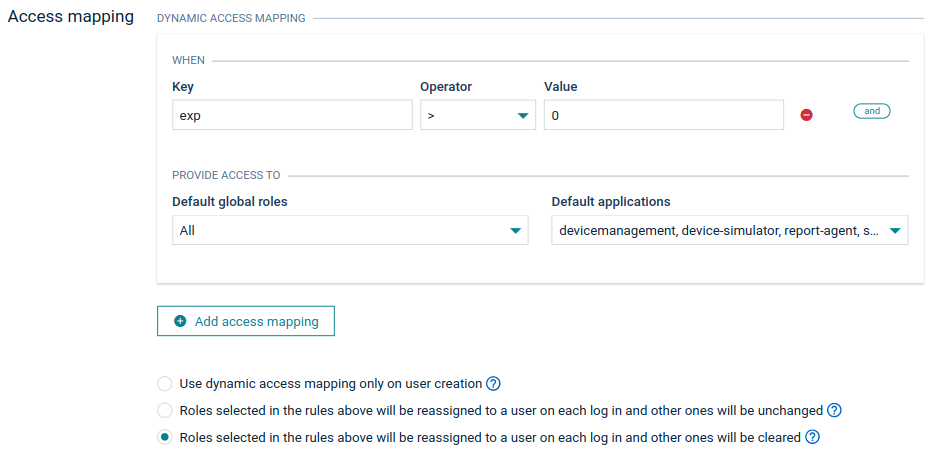
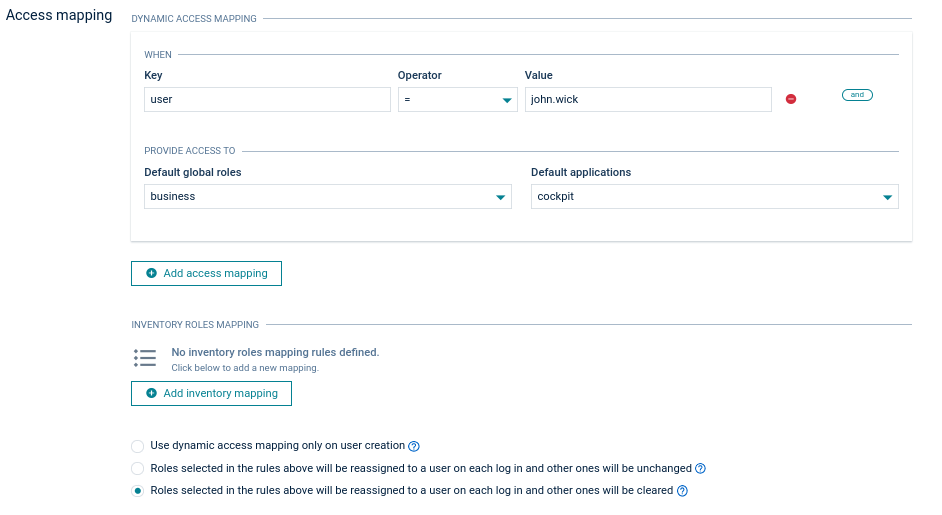
[MTM-51425] Extend dynamic access mapping with possibility to assign inventory roles for SSO users.

diff --git a/content/users-guide/administration-bundle/configuring-single-sign-on.md b/content/users-guide/administration-bundle/configuring-single-sign-on.md
@@ -87,11 +87,11 @@ Each time a user logs in, the content of the access token is verified and is a b
 }
 ```
 
-The user will be granted access to the global role "business" and the default application "cockpit".
+The user will be granted access to the global role "business", the default application "cockpit" and inventory role "Manager" and "Reader" for device group named "region north".
 
 If no access mapping matches the user access token, the user will get an "access denied" message when trying to log in. This will also happen if there is no access mapping defined causing all users to be unable to log in using SSO.
 
-New rules can be added by clicking **Add access mapping** at the bottom. An access mapping statement can consist of multiple checks like in the image below. You can add a rule to an existing statement by clicking **and**. Click the Minus button to remove a rule.
+New rules can be added by clicking **Add access mapping** or **Add inventory roles** at the bottom. An access mapping statement can consist of multiple checks like in the image below. You can add a rule to an existing statement by clicking **and**. Click the Minus button to remove a rule.
 
 New roles are added to the user from every matching access mapping. If one access mapping statement assigns the role "admin" and a second one assigns the role "business" and both meet the defined conditions, then the user will be granted access to the global roles "business" and "admin"."
 
@@ -126,7 +126,7 @@ To change this behavior, select one of the following radio buttons at the bottom
 
 * **Use dynamic access mapping only on user creation** - when selected, dynamic access mapping will be used only when a new user logs in to fill in the initial roles. When a user already exists in {{< product-c8y-iot >}}, the roles will not be overwritten nor updated.
 
-* **Roles selected in the rules above will be reassigned to a user on each log in and other ones will be unchanged** - when selected, dynamic access mapping will be used on every login, but the roles not listed in the access mapping configuration will not be updated. Only the roles that are listed in the defined access mapping rules will be overwritten.
+* **Roles selected in the rules above will be reassigned to a user on each log in and other ones will be unchanged** - when selected, dynamic access mapping will be used on every login, but the roles not listed in the access mapping configuration will not be updated. Only the global roles, default applications, device groups that are listed in the defined access mapping rules will be overwritten.
 
 ![Custom access mapping](/images/users-guide/Administration/sso-custom-access-mapping-2.png)
 

diff --git a/content/users-guide/administration-bundle/managing-users.md b/content/users-guide/administration-bundle/managing-users.md
@@ -40,6 +40,7 @@ For users created via an external authorization server, updating the following s
 * user info (login alias, email, first name, last name, telephone)
 * global roles - configurable via SSO access mapping
 * application access - configurable via SSO access mapping
+* inventory roles assignments - configurable via SSO access mapping
 
 Moreover, password reset in {{< product-c8y-iot >}} is disabled for users created through an external authentication server.
 
